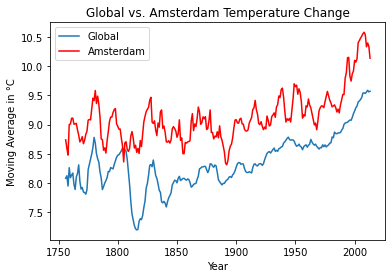
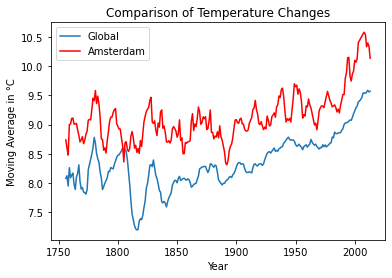
advanced filters 2

diff --git a/docs/README.md b/docs/README.md
@@ -1,10 +1,11 @@
+# Exploring Weather Trends 
 
 ## Join Database tables
 
 - `city_data`
 - `global_data`
 
-### Data Model
+### <h3 align="center" id="heading">Data Model</h3>
 | year | country | city | avg_temp_city | avg_temp_global |
 |------|---------|------|---------------|-----------------|
 | INT  | CHAR    | CHAR | ENUM          | ENUM            |
@@ -33,6 +34,11 @@ import matplotlib.pyplot as plt
 ```
 
 ## 2. Extract
+There are 3 datasets exists:
+* **city_list**: This contains a list of cities and countries in the database. Look through them in order to find the city nearest to you.
+* **city_data**: This contains the average temperatures for each city by year (ºC).
+* **global_data**: This contains the average global temperatures by year (ºC).
+
 I used pandas with `read_csv` function to extract csv to dataframe. Prefered to plot with `matplotlib`
 * **cum_sum**: Cumulative summary of global temperature
 * **count**: Indicates to nr. of years
@@ -40,7 +46,7 @@ I used pandas with `read_csv` function to extract csv to dataframe. Prefered to 
 
 
 ```python
-df = pd.read_csv("data/dataset.csv")
+df = pd.read_csv("../data/dataset.csv")
 df
 ```
 
@@ -309,6 +315,8 @@ df_ams
 
 ### Moving Average
 
+Moving average, i.e. rolling average, is used for calculating averages of window groups indeed having a smoother line to visualise trends better rather than seasonal effects.
+
 
 ```python
 year = df_ams['year']
@@ -473,14 +481,14 @@ df_ams
 
 ## 4. Visualisation
 
-Definition of done...
+The line is the best chart to observe a time series data. In this way, trends and movement directions can be clearly tracked. 
 
 
 ```python
 plt.plot(year, global_temp_ma, label="Global")
 plt.plot(year, ams_temp_ma, label="Amsterdam", color="red")
 plt.legend()
-plt.title( 'Global vs. Amsterdam Temperature Change')
+plt.title( 'Comparison of Temperature Changes')
 plt.xlabel ('Year')
 plt.ylabel('Moving Average in °C')
 plt.show()
@@ -492,11 +500,9 @@ plt.show()
     
 
 
-The graph shows the moving average of temperature changes in globe and Amsterdam, between 1750 and 2000. 
-According to the graph, the years 1750 to 1800 saw the MA of temperatures in globe and Amsterdam increase and decrease by approximately the same directions.
-However, when global MAs reflect an overall increasing trend expect for middle 1800s, Amsterdam MAs has quick and sharp up and downs compared to global ones. 
-Also, it’s clearly seen that in Amsterdam, MA of temperatures are always above the global rates expect for the early 1800s. So that, Amsterdam is hotter compared to the global average. 
-As overall, the world consistently getting hotter since the late 1850s.
+*The graph shows the moving average of temperature changes in globe and Amsterdam, between 1750 and 2013. 
+According to the graph, the years 1750 to 1800 saw the MA of temperatures in globe and Amsterdam increase and decrease by approximately the same directions. However, when global MAs reflect an overall increasing trend except for middle 1800s, Amsterdam MAs has quick and sharp up and downs compared to global ones. Also, it’s clearly seen that in Amsterdam, MA of temperatures are always above the global rates expect for the early 1800s. So that, Amsterdam is hotter compared to the global average. 
+As overall, the world consistently getting hotter since the late 1850s.*
 
 
 ```python
@@ -648,7 +654,7 @@ plt.plot(year, global_temp_ma, label="Global")
 plt.plot(year, berlin_temp_ma, label="Berlin", color="red")
 plt.plot(year, ams_temp_ma, label="Amsterdam", color="purple")
 plt.legend()
-plt.title( 'Global vs. Amsterdam Temperature Change')
+plt.title( 'Comparison of Temperature Changes')
 plt.xlabel ('Year')
 plt.ylabel('Moving Average in °C')
 plt.show()
@@ -964,7 +970,7 @@ plt.plot(year, berlin_temp_ma, label="Berlin", color="red")
 plt.plot(year, ams_temp_ma, label="Amsterdam", color="purple")
 plt.plot(year, paris_temp_ma, label="Paris", color="green")
 plt.legend()
-plt.title( 'Global vs. Amsterdam Temperature Change')
+plt.title( 'Comparison of Temperature Changes')
 plt.xlabel ('Year')
 plt.ylabel('Moving Average in °C')
 plt.show()
@@ -1289,4 +1295,9 @@ plt.show()
 
     
 ![png](output_30_0.png)
-  
+    
+
+
+*The Comparison of Temperature Changes graph displays 5 rolling averages as Istanbul, Berlin, Amsterdam, Paris and Global.
+As Istanbul is the hottest city, Paris follows her. Althoug, Berlin is colder than Amsterdam, they is a strong pozitif correlation between them.*
+
